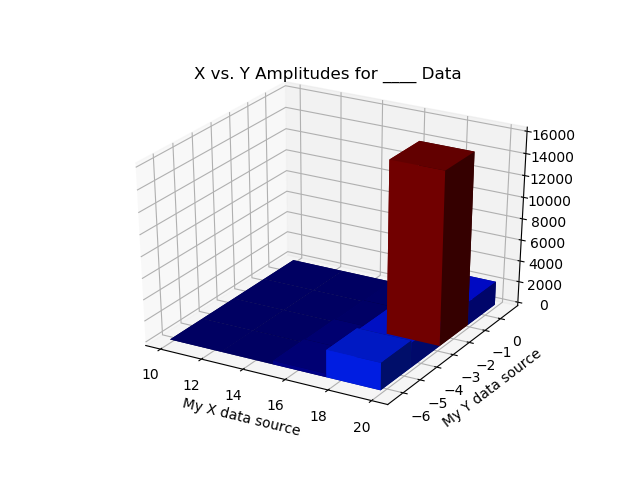
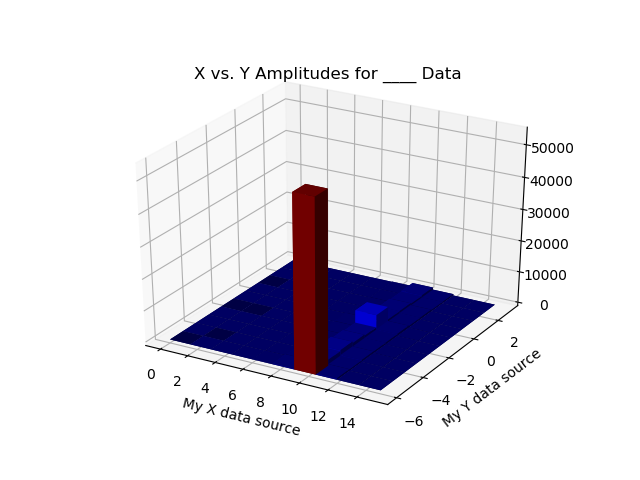
yay

diff --git a/playground.py b/playground.py
@@ -23,6 +23,7 @@ import pandas as pd
 
 file_path = 'Device13_formatted.csv'
 df = pd.read_csv(file_path)
+df = df[(df['speed_mps']!=0) & (df['accel_mps2']!=0)]
 # df = df.set_index('timestamp')
 # start_time = pd.to_datetime('2017-09-25 13:41:41')
 # end_time = pd.to_datetime('2017-09-30 23:30:00')
@@ -36,25 +37,21 @@ print(df['accel_mps2'].max())
 x = df['speed_mps'].to_numpy()
 y = df['accel_mps2'].to_numpy()
 
-# xAmplitudes = np.array(XY_select)[:,0]#your data here
-# yAmplitudes = np.array(XY_select)[:,1]#your other data here
-
-
 fig = plt.figure() #create a canvas, tell matplotlib it's 3d
 ax = fig.add_subplot(111, projection='3d')
 
 
-hist, xedges, yedges = np.histogram2d(x, y, bins=10, range = [[0,+10],[-6,+14]]) # you can change your bins, and the range on which to take data
+hist, xedges, yedges = np.histogram2d(x, y, bins=10)#, range = [[0,+30],[-0.5,0.5]]) # you can change your bins, and the range on which to take data
 # hist is a 7X7 matrix, with the populations for each of the subspace parts.
 print(hist)
 print(xedges)
 print(yedges)
 
-xpos, ypos = np.meshgrid(xedges[:-1]+xedges[1:], yedges[:-1]+yedges[1:]) -(xedges[1]-xedges[0])
+xpos, ypos = np.meshgrid(xedges[:-1], yedges[:-1], indexing="ij")
 
 
-xpos = xpos.flatten()*1./2
-ypos = ypos.flatten()*1./2
+xpos = xpos.flatten()
+ypos = ypos.flatten()
 zpos = np.zeros_like (xpos)
 
 dx = xedges [1] - xedges [0]
@@ -71,42 +68,36 @@ ax.bar3d(xpos, ypos, zpos, dx, dy, dz, color=rgba, zsort='average')
 plt.title("speed vs accel for ID 13 100k - 200k Data")
 plt.xlabel("speed (mps)")
 plt.ylabel("accel (mps2)")
-plt.savefig("Zoomed_id13_100k_to_200k_observations")
+# plt.savefig("Zoomed_id13_100k_to_200k_observations")
 plt.show()
 
-# fig = plt.figure()          #create a canvas, tell matplotlib it's 3d
-# ax = fig.add_subplot(111, projection='3d')
 
-# #make histogram stuff - set bins - I choose 20x20 because I have a lot of data
-# hist, xedges, yedges = np.histogram2d(x, y, bins=(4,4), range = [[10,20],[-6,1]])
+# fig = plt.figure()
+# ax = fig.add_subplot(111, projection='3d')
+# hist, xedges, yedges = np.histogram2d(x, y, bins=4)
 # print(hist)
 # print(xedges)
 # print(yedges)
-# # xpos, ypos = np.meshgrid(xedges[:-1]+xedges[1:], yedges[:-1]+yedges[1:])
-# xpos, ypos = np.meshgrid(xedges[:-1]+xedges[1:], yedges[:-1]+yedges[1:]) -(xedges[1]-xedges[0])
+
+# # Construct arrays for the anchor positions of the 16 bars.
+# xpos, ypos = np.meshgrid(xedges[:-1], yedges[:-1], indexing="ij")
 # print(xpos)
 # print(ypos)
+# xpos = xpos.ravel()
+# ypos = ypos.ravel()
+# zpos = 0
 
-# xpos = xpos.flatten()/2.
-# ypos = ypos.flatten()/2.
-# zpos = np.zeros_like (xpos)
+# # Construct arrays with the dimensions for the 16 bars.
+# dx = dy = 0.5 * np.ones_like(zpos)
+# dz = hist.ravel()
 
-# dx = xedges [1] - xedges [0]
-# dy = yedges [1] - yedges [0]
-# dz = hist.flatten()
+# ax.bar3d(xpos, ypos, zpos, dx, dy, dz, zsort='average')
 
-# cmap = plt.cm.get_cmap('jet') # Get desired colormap - you can change this!
-# max_height = np.max(dz)   # get range of colorbars so we can normalize
-# min_height = np.min(dz)
-# # scale each z to [0,1], and get their rgb values
-# rgba = [cmap((k-min_height)/max_height) for k in dz] 
-
-# ax.bar3d(xpos, ypos, zpos, dx, dy, dz, color=rgba, zsort='average')
-# plt.title("X vs. Y Amplitudes for ____ Data")
-# plt.xlabel("My X data source")
-# plt.ylabel("My Y data source")
-# plt.savefig("Your_title_goes_here")
 # plt.show()
+
+
+
+
 
 
 
